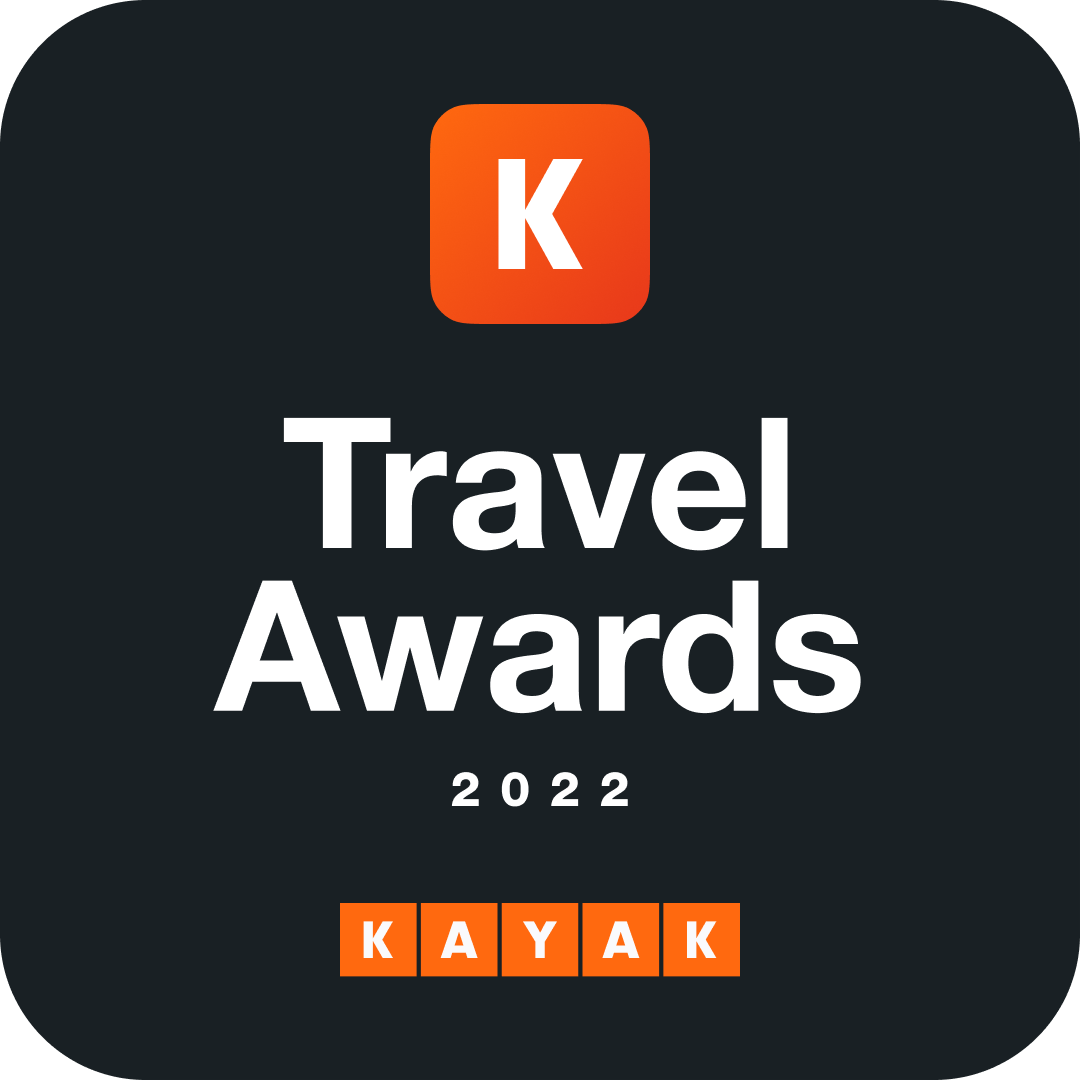
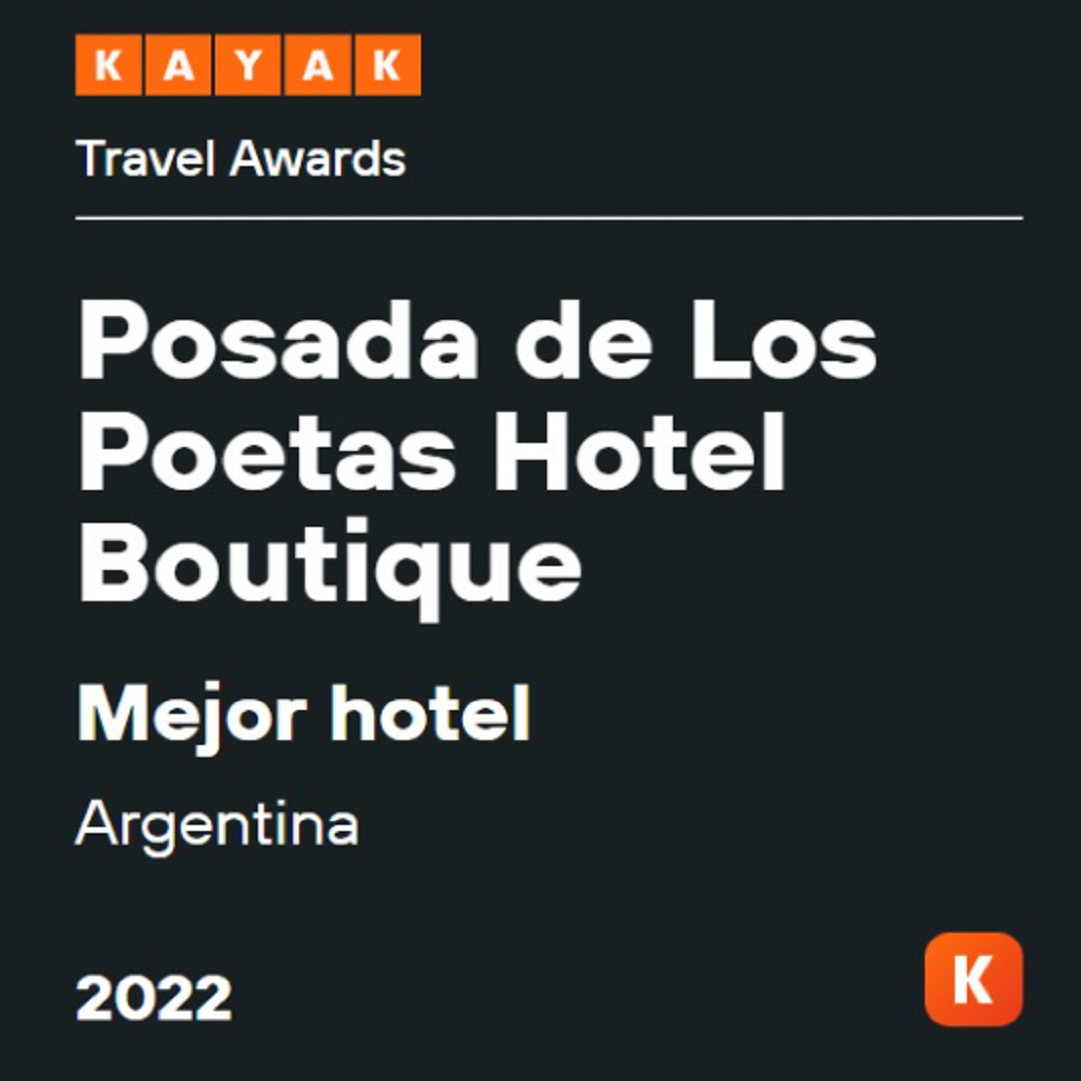
kayak 2022

diff --git a/index.html b/index.html
@@ -259,7 +259,7 @@
         <!-- Expedia CERTIFIED 2022 -->  
         <a target="_blank" href="https://ar.hoteles.com/hotel/details.html?pos=HCOM_LATAM&locale=es_AR&eds=false&hotel-id=567863#section-reviews"><img src="/img/ota/hotels_2021.png" alt="Hotels.com Most Wanted Awards"/></a>
         <!-- Kayak CERTIFIED 2022 -->  
-        <a target="_blank" href='https://www.kayak.es/San-Lorenzo-Salta--Hoteles-Posada-de-Los-Poetas-Hotel-Boutique.2375642.ksp'><img height="300px" src='https://content.r9cdn.net/seo-res/badges/v4/DARK_LARGE_TRAVEL_AWARDS.png'/></a>
+        <a target="_blank" href='https://www.kayak.es/San-Lorenzo-Salta--Hoteles-Posada-de-Los-Poetas-Hotel-Boutique.2375642.ksp'><img src="img/ota/kayak_2022.png" alt="KAYAK 2022 Travel Awards"/></a>
         <!-- Booking CERTIFIED 2022 -->  
         <a target="_blank" href="https://www.booking.com/hotel/ar/posada-de-los-poetas-boutique.es-ar.html"><img src="./img/ota/booking_2022.png" alt="Booking.com 2022 Certified"></a>
         <!-- Tripadvisor CERTIFIED 2022 -->  
